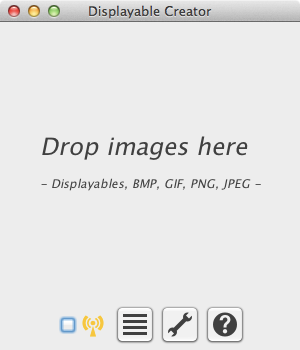
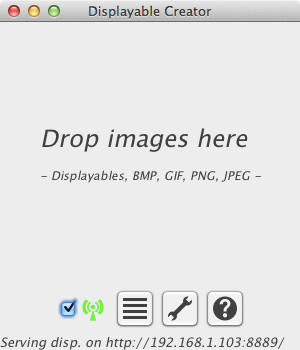
Last commit for 2.0.0 ????

diff --git a/src/java/net/niconomicon/tile/source/app/help/html/index.html b/src/java/net/niconomicon/tile/source/app/help/html/index.html
@@ -8,10 +8,11 @@
 
 <h2 id="principle">Principle</h2>
 
-<p>The aim of the displayable creator is to create displayable and to
-open Displayables. A displayable is created from a usually big image.</p>
+<p>The aim of the Displayable creator is to create Displayable and to
+allow you to open and view Displayables. A Displayable is created from
+a usually big image.</p>
 
-<p>Once the displayable Creator is launched, just drop images on the main
+<p>Once the Displayable Creator is launched, just drop images on the main
 window to create Displayables, or drop Displayables to view them.</p>
 
 <h2 id="mainwindow">Main Window</h2>
@@ -21,11 +22,11 @@ window to create Displayables, or drop Displayables to view them.</p>
 <p>The main window give access to all the functionality of the app. </p>
 
 <ul>
-<li>the checkbox enable or disable sharing of displayables over the network.</li>
+<li>the checkbox enable or disable sharing of Displayables over the network.</li>
 <li>the list icon gives access to the list of Displayables and images
  (queued for transformation into Displayables).</li>
-<li>the wrench icon gives access to the pgenreference for the app.</li>
-<li>the help icon gives access to this very document.</li>
+<li>the wrench icon gives access to the preferences for the app.</li>
+<li>the &#8216;?&#8217; icon gives access to this very document.</li>
 </ul>
 
 <h2 id="preferences">Preferences</h2>
@@ -34,17 +35,20 @@ window to create Displayables, or drop Displayables to view them.</p>
 
 <ul>
 <li><em>Sharing port</em>: the network port on your machine from which the
- Displayable Creator will serve the displayable to your
+ Displayable Creator will serve the Displayable to your
  Displayator-running iOS devices. This port need to be open in your
  firewall.</li>
-<li><em>Activate on startup</em>: when ticked, the displayable creator will
+<li><em>Activate on startup</em>: when ticked, the Displayable creator will
  start the network sharing functionality when launching.</li>
-<li><em>Tile Size</em>: A displayable stores a copy of the original image cut
+<li><em>Tile Size</em>: A Displayable stores a copy of the original image cut
  in tiles that can be quickly accessed. This allow you to choose the
- tile size. Bigger tiles means less tiles to store, which means a
- smaller displayable. However, bigger tiles take more time to load on
- the iOS device. Tooltips indicate suggested usage for each tile
- size.</li>
+ tile size. Bigger tiles means less tiles to show. However, bigger
+ tiles might take more time to load on older device. Tooltips
+ indicate suggested usage for each tile size.</li>
+<li><em>Check for update on startup</em>: as it says :-).</li>
+<li><em>Check now</em>: will immediately check for update. Also, if you
+ previously clicked on &#8220;ignore [version]&#8221;, that version will no
+ longer be ignored (until ignored again).</li>
 </ul>
 
 <h2 id="displayableimagelist">Displayable &amp; Image List</h2>
@@ -52,19 +56,19 @@ window to create Displayables, or drop Displayables to view them.</p>
 <p><img src="img/list.png"></p>
 
 <p>This list contains the images queued for transformation into
-displayable, and the displayables ready for sharing over the local
+Displayable, and the Displayables ready for sharing over the local
 network. Sharing is enabled/disabled on the main screen.</p>
 
 <ul>
-<li>The <em>floppy-disk icon</em> marks that the displayable is unsaved,
+<li>The <em>floppy-disk icon</em> marks that the Displayable is unsaved,
 meaning that it will be destroyed when you quit the app. Click on it
 to view the save dialog (see bellow).</li>
 <li>The <em>pencil icon</em> indicate the Displayable has already been
  saved. Clicking on it will popup the save/edit dialog (see bellow).</li>
-<li>Clicking on the <em>eye icon</em> will activate the displayable viewer
- window, loading it with the selected displayable.</li>
-<li>Clicking on the <em>x icon</em> allows you to remove the displayable or
- queued image from the list. If the displayable is unsaved, removing
+<li>Clicking on the <em>eye icon</em> will activate the Displayable viewer
+ window, loading it with the selected Displayable.</li>
+<li>Clicking on the <em>x icon</em> allows you to remove the Displayable or
+ queued image from the list. If the Displayable is unsaved, removing
  it from the list will remove it from its temporary place on your
  hard drive.</li>
 </ul>
@@ -73,26 +77,27 @@ to view the save dialog (see bellow).</li>
 
 <p><img src="img/save.png"></p>
 
-<p>The Edit/Save dialog allows you to change the title of the displayable, its
-file name, and you can add a description.</p>
+<p>The Edit/Save dialog allows you to change the title of the
+Displayable, its file name, and you can add a description.</p>
 
 <ul>
-<li>The <em>title</em> is the name of the displayable as it will appear in the
+<li>The <em>title</em> is the name of the Displayable as it will appear in the
 Displayator app on your iOS device.</li>
-<li>The <em>save as</em> field contains the file name of the displayable,
+<li>The <em>save as</em> field contains the file name of the Displayable,
  without the file extension.
- your displayable in.</li>
+ your Displayable in.</li>
 <li>The <em>in directory</em> field contains the directory you want to save</li>
 <li>The <em>description</em> will appear on the download screen of the
- displayable app, on top of a miniature of the image.</li>
+ Displayable app, on top of a miniature of the image.</li>
 </ul>
 
-<h2 id="viewingdisplayables">Viewing displayables</h2>
+<h2 id="viewingdisplayables">Viewing Displayables</h2>
 
 <p><img src="img/view.png"></p>
 
-<p>When you click on the <em>eye</em> icon in the displayable list, the viewer
-will appear with the selected displayable. Clicking on the looking glasses with + and - will zoom and de-zoom the displayable.</p>
+<p>When you click on the <em>eye</em> icon in the Displayable list, the viewer
+will appear with the selected Displayable. Clicking on the looking
+glasses with + and - will zoom and de-zoom the Displayable.</p>
 
 <p>You can move the view around by dragging the image.</p>
 

diff --git a/src/java/net/niconomicon/tile/source/app/sharing/server/jetty/displayableList.css b/src/java/net/niconomicon/tile/source/app/sharing/server/jetty/displayableList.css
@@ -2,6 +2,7 @@
 	http://127.0.0.1:8889/index.css
 	http://192.168.1.5:8889/displayableList.css
 	http://192.168.1.5/~niko/displayables/displayableList.css
+	http://192.168.1.103:8889/displayableList.css
 */
 
 /* Used to style the html list of shared Displayables. */
@@ -13,10 +14,10 @@ body {
 }
 div.feed{
 	margin: 1em;
+	font-size: 1.3em;
 }
 div.feed a{
 	font-weight: bold;
-	font-size: 1.5em;
 }
 
 .item{
@@ -26,13 +27,17 @@ div.feed a{
 	padding-bottom: 0.4em;
 }
 .content{
-	margin-left: -0px;
+	margin-left: -px;
+}
+.content b{
+	margin-left: -4em;
 }
 img{
 	padding-top: 2em;
 	padding-bottom: 2em;
 	padding: 1em;
 	clear: left;
+	float: left;
 }
 b{
 	text-align: left;

diff --git a/src/java/net/niconomicon/tile/source/app/sharing/DisplayableSharingWidget.java b/src/java/net/niconomicon/tile/source/app/sharing/DisplayableSharingWidget.java
@@ -145,7 +145,7 @@ public class DisplayableSharingWidget {
 	 * @return if the operation was successful.
 	 */
 	private boolean startSharing(boolean shouldPopup) {
-		System.out.println("should start sharing the maps, with " + (shouldPopup ? "popup" : "no popup") + " in case of problem");
+		//System.out.println("should start sharing the maps, with " + (shouldPopup ? "popup" : "no popup") + " in case of problem");
 
 		actionCheckBox.setEnabled(false);
 		synchronized (currentStatus) {

diff --git a/src/java/net/niconomicon/tile/source/app/Ref.java b/src/java/net/niconomicon/tile/source/app/Ref.java
@@ -52,7 +52,7 @@ public final class Ref {
 	public static final String sharing_jsonRef = "displayables.json";
 	public static final String sharing_htmlRef = "index.html";
 
-	public static final String sharing_cssRef = "displayableList.css";
+	public static final String sharing_cssRef = "/displayableList.css";
 
 	public static final String URI_jsonRef = "/displayables.json";
 	public static final String URI_htmlRef = "/index.html";

diff --git a/src/java/net/niconomicon/tile/source/app/input/QueueListView.java b/src/java/net/niconomicon/tile/source/app/input/QueueListView.java
@@ -166,7 +166,7 @@ public class QueueListView extends JPanel implements DisplayablesSource {
 				displayables.add(p.getFullPath());
 			}
 		}
-		System.out.println("displayables");
+		//System.out.println("displayables");
 		System.out.println(displayables);
 		return displayables;
 	}

diff --git a/src/java/net/niconomicon/tile/source/app/help/html/index.md b/src/java/net/niconomicon/tile/source/app/help/html/index.md
@@ -4,10 +4,11 @@
 
 ## Principle
 
-The aim of the displayable creator is to create displayable and to
-open Displayables. A displayable is created from a usually big image.
+The aim of the Displayable creator is to create Displayable and to
+allow you to open and view Displayables. A Displayable is created from
+a usually big image.
 
-Once the displayable Creator is launched, just drop images on the main
+Once the Displayable Creator is launched, just drop images on the main
 window to create Displayables, or drop Displayables to view them.
 
 ## Main Window
@@ -16,11 +17,11 @@ window to create Displayables, or drop Displayables to view them.
 
 The main window give access to all the functionality of the app. 
 
-- the checkbox enable or disable sharing of displayables over the network.
+- the checkbox enable or disable sharing of Displayables over the network.
 - the list icon gives access to the list of Displayables and images
   (queued for transformation into Displayables).
-- the wrench icon gives access to the pgenreference for the app.
-- the help icon gives access to this very document.
+- the wrench icon gives access to the preferences for the app.
+- the '?' icon gives access to this very document.
 
 
 ## Preferences
@@ -28,17 +29,20 @@ The main window give access to all the functionality of the app.
 <img src="img/prefs.png">
 
 - _Sharing port_: the network port on your machine from which the
-  Displayable Creator will serve the displayable to your
+  Displayable Creator will serve the Displayable to your
   Displayator-running iOS devices. This port need to be open in your
   firewall.
-- _Activate on startup_: when ticked, the displayable creator will
+- _Activate on startup_: when ticked, the Displayable creator will
   start the network sharing functionality when launching.
-- _Tile Size_: A displayable stores a copy of the original image cut
+- _Tile Size_: A Displayable stores a copy of the original image cut
   in tiles that can be quickly accessed. This allow you to choose the
-  tile size. Bigger tiles means less tiles to store, which means a
-  smaller displayable. However, bigger tiles take more time to load on
-  the iOS device. Tooltips indicate suggested usage for each tile
-  size.
+  tile size. Bigger tiles means less tiles to show. However, bigger
+  tiles might take more time to load on older device. Tooltips
+  indicate suggested usage for each tile size.
+- _Check for update on startup_: as it says :-).
+- _Check now_: will immediately check for update. Also, if you
+  previously clicked on "ignore [version]", that version will no
+  longer be ignored (until ignored again).
 
 
 ## Displayable & Image List
@@ -46,18 +50,18 @@ The main window give access to all the functionality of the app.
 <img src="img/list.png">
 
 This list contains the images queued for transformation into
-displayable, and the displayables ready for sharing over the local
+Displayable, and the Displayables ready for sharing over the local
 network. Sharing is enabled/disabled on the main screen.
 
-- The _floppy-disk icon_ marks that the displayable is unsaved,
+- The _floppy-disk icon_ marks that the Displayable is unsaved,
 meaning that it will be destroyed when you quit the app. Click on it
 to view the save dialog (see bellow).
 - The _pencil icon_ indicate the Displayable has already been
   saved. Clicking on it will popup the save/edit dialog (see bellow).
-- Clicking on the _eye icon_ will activate the displayable viewer
-  window, loading it with the selected displayable.
-- Clicking on the _x icon_ allows you to remove the displayable or
-  queued image from the list. If the displayable is unsaved, removing
+- Clicking on the _eye icon_ will activate the Displayable viewer
+  window, loading it with the selected Displayable.
+- Clicking on the _x icon_ allows you to remove the Displayable or
+  queued image from the list. If the Displayable is unsaved, removing
   it from the list will remove it from its temporary place on your
   hard drive.
 
@@ -66,27 +70,45 @@ to view the save dialog (see bellow).
 
 <img src="img/save.png">
 
-The Edit/Save dialog allows you to change the title of the displayable, its
-file name, and you can add a description.
+The Edit/Save dialog allows you to change the title of the
+Displayable, its file name, and you can add a description.
 
-- The _title_ is the name of the displayable as it will appear in the
+- The _title_ is the name of the Displayable as it will appear in the
 Displayator app on your iOS device.
-- The _save as_ field contains the file name of the displayable,
+- The _save as_ field contains the file name of the Displayable,
   without the file extension.
-  your displayable in.
+  your Displayable in.
 - The _in directory_ field contains the directory you want to save
 - The _description_ will appear on the download screen of the
-  displayable app, on top of a miniature of the image.
+  Displayable app, on top of a miniature of the image.
 
 
-## Viewing displayables
+## Viewing Displayables
 
 <img src="img/view.png">
 
-When you click on the _eye_ icon in the displayable list, the viewer
-will appear with the selected displayable. Clicking on the looking glasses with + and - will zoom and de-zoom the displayable.
+When you click on the _eye_ icon in the Displayable list, the viewer
+will appear with the selected Displayable. Clicking on the looking
+glasses with + and - will zoom and de-zoom the Displayable.
 
 You can move the view around by dragging the image.
+
+
+## Sharing Displayables over the local network
+
+If you have any Displayable loaded in the app, and enable the checkbox
+on the main screen of the app, the Displayable will be made available
+over the local network. To download Displayables Connect your iOS
+device to the same network, start the Displayator app and tap on
+"Download Displayables". The app should automatically find this
+Displayable Creator and fetch the list of Displayable ready for
+download. 
+
+Should Displayator fail to find the list of shared Displayables, open
+Safari on your iOS device and type in the address that appear at the
+bottom of the Displayable Creator application. This page will contain
+links to either open the list or start downloading individual
+Displayables in the Displayator app.
 
 <!--- clicking on the diagonal expanding arrows will make the view go full-screen.-->
 
